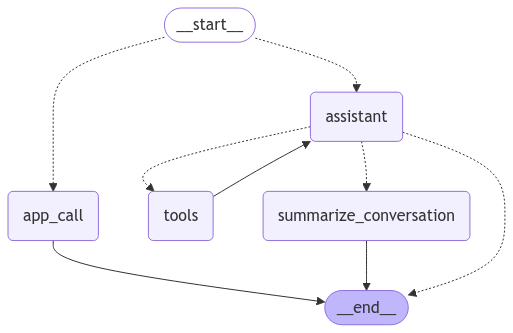
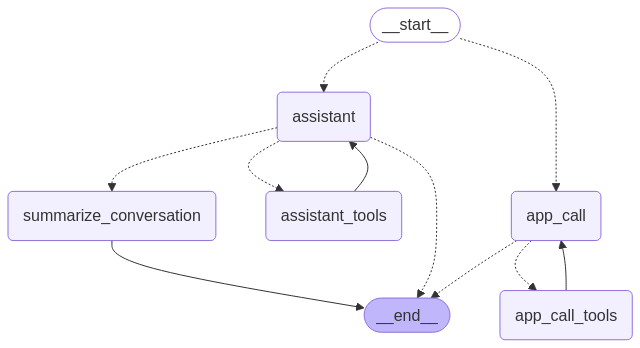
Refactored prompts, enhanced navigation functionality, added current datetime tool

diff --git a/serve.py b/serve.py
@@ -15,8 +15,8 @@
 # specific language governing permissions and limitations
 # under the License.
 
-from tools import app_functions, get_document_content
-from prompts import assistant_prompt, app_call_prompt
+from tools import app_functions, get_document_content, get_current_datetime
+from prompts import assistant_prompt, app_call_prompt, summary_prompt
 
 import os
 import jwt #pyjwt
@@ -42,9 +42,12 @@ from pydantic import BaseModel
 load_dotenv()
 
 # Create LLM model
-tools = [app_functions]
-model = ChatOpenAI(model="gpt-4o-mini", temperature=0, streaming=False)
-model_with_tools = model.bind(tools=[convert_to_openai_tool(tool) for tool in tools])
+assistant_tools = [app_functions, get_current_datetime]
+app_call_tools = [get_current_datetime]
+simple_model = ChatOpenAI(model="gpt-4o-mini", temperature=0.5, top_p=0.5, streaming=False)
+model = ChatOpenAI(model="gpt-4o", temperature=0.3, top_p=0.2, streaming=False)
+model_w_assistant_tools = model.bind(tools=[convert_to_openai_tool(tool) for tool in assistant_tools])
+model_w_app_call_tools = model.bind(tools=[convert_to_openai_tool(tool) for tool in app_call_tools])
 
 class CustomState(MessagesState):
     """
@@ -69,10 +72,9 @@ def assistant(state: CustomState):
     else:
        messages = state["messages"]
 
-    response = model_with_tools.invoke([SystemMessage(content=assistant_prompt)] +
-                                       [SystemMessage(content="Here is the history of the chat so far: ")] +
-                                       messages)
+    response = model_w_assistant_tools.invoke([SystemMessage(content=assistant_prompt)] + messages)
     print(f"{function_name}: Response: {response.content}")
+
     return {"messages": response}
 
 def summarize_conversation(state: CustomState, messages_to_keep = 5):
@@ -84,21 +86,25 @@ def summarize_conversation(state: CustomState, messages_to_keep = 5):
     # Try to get a summary from the state
     summary = state.get("summary", "")
 
+
     # If a summary exists, prompt the model to extend it
     if summary:
         summary_message = (
             f"This is the summary of the conversation to date: {summary}\n\n"
-            "Extend the summary by taking into account the new mesages above:"
+             "Extend the summary by taking into account the new mesages below:"
         )
     # If not, prompt the model to create a summary
     else:
-        summary_message = "Create a summary of the conversation above:"
+        summary_message = "\n\nCreate a summary of the conversation below:"
     
     print(f"{function_name}: Invoking summarization model...")
     
     messages = state["messages"][:] # Create a copy of the messages list
-    messages_with_summary_message = messages + [HumanMessage(content=summary_message)] # Add prompt to our history
-    response = model.invoke(messages_with_summary_message) # Summarize
+    messages_with_summary_message = ([SystemMessage(content=summary_prompt)] + 
+                                     [HumanMessage(content=summary_message)] + 
+                                      messages) # Add prompt to our history
+    
+    response = simple_model.invoke(messages_with_summary_message) # Summarize
 
     # Delete previous messages akin to "messages_to_keep"
     delete_messages = []
@@ -147,17 +153,20 @@ def app_call(state: CustomState):
             The description of the function that was called and additional data was required for is outlined as follows:
             {get_document_content(last_ai_message)}
             
-            The last two prompts instructed as follows:
+            The last two messages received from the app (either from the app's backend or the user) are:
             {last_user_messages[0]}
             {last_user_messages[1]}
 
             The app's additional data response was:
             {last_user_messages[0]}
+
+            If the additional data response was empty, the app didn't provide any information. This is the most up-to-date information.
             """
 
             full_prompt = app_call_prompt + additional_prompt
             print(f"{function_name}: Full prompt: {full_prompt}")
-            response = model.invoke(full_prompt)
+
+            response = model_w_app_call_tools.invoke([SystemMessage(full_prompt)] + messages)
             print(f"{function_name}: Response: {response.content}")
 
             return {"messages": response}
@@ -183,7 +192,7 @@ def is_tool_related_message(message):
 #endregion
 
 #region Edge Definitions
-def should_summarize(state: CustomState, messages_key: str = "messages", summarize_at = 27):
+def should_summarize(state: CustomState, messages_key: str = "messages", summarize_at = 15):
     """
     Checks if the messages should be summarized, and if so, route accordingly.
     """
@@ -201,9 +210,9 @@ def should_summarize(state: CustomState, messages_key: str = "messages", summari
         raise ValueError(f"No messages found in input state to tool_edge: {state}")
     
     print(f"{function_name}: Messages length: {len(messages)}")
-    # Check if there's a tool call, and if so, go to the tools node
+    # Check if there's a tool call, and if so, go to the assistant tools node
     if hasattr(ai_message, "tool_calls") and len(ai_message.tool_calls) > 0:
-        routing = "tools"
+        routing = "assistant_tools"
         print(f"{function_name}: Tool call detected. Routing to {routing}.")
     # If there are more than 'summarize_at' messages, then we summarize the conversation
     elif len(messages) > summarize_at:
@@ -228,8 +237,15 @@ def should_execute_app_call(state: CustomState):
     else:
         routing = "assistant"
         print(f"{function_name}: No app call detected. Routing to {routing}.")
+    
     return routing
 
+def app_call_tools_condition(state) -> str:
+    """
+    Wrap tools_condition to redirect to 'app_call_tools' instead of 'tools'.
+    """
+    result = tools_condition(state)
+    return "app_call_tools" if result == "tools" else result
 #endregion
 
 # Graph
@@ -238,8 +254,9 @@ workflow = StateGraph(CustomState)
 # Define nodes: these do the work
 workflow.add_node("assistant", assistant)
 workflow.add_node("app_call", app_call)
-workflow.add_node("tools", ToolNode(tools))
-workflow.add_node(summarize_conversation)
+workflow.add_node("assistant_tools", ToolNode(assistant_tools))
+workflow.add_node("app_call_tools", ToolNode(app_call_tools))
+workflow.add_node("summarize_conversation", summarize_conversation)
 
 # Define edges: these determine how the control flow moves
 workflow.add_conditional_edges(
@@ -252,18 +269,24 @@ workflow.add_conditional_edges(
 )
 workflow.add_conditional_edges(
     "assistant",
-    # If the latest message (result) from assistant is a tool call -> tools_condition routes to tools
-    # If the latest message (result) from assistant is a not a tool call -> tools_condition routes to END
     should_summarize,
     {
-        "tools": "tools",
+        "assistant_tools": "assistant_tools",
         "summarize_conversation": "summarize_conversation",
         END: END
     }
 )
-workflow.add_edge("tools", "assistant")
+workflow.add_conditional_edges(
+    "app_call",
+    app_call_tools_condition,
+    {
+        "app_call_tools": "app_call_tools",
+        END: END
+    }
+)
+workflow.add_edge("assistant_tools", "assistant")
+workflow.add_edge("app_call_tools", "app_call")
 workflow.add_edge("summarize_conversation", END)
-workflow.add_edge("app_call", END)
 
 memory = MemorySaver()
 react_graph = workflow.compile(checkpointer=memory)

diff --git a/prompts.py b/prompts.py
@@ -1,23 +1,15 @@
-# Define prompt
 assistant_prompt = """
-You are an assistant integrated with various accessibility apps to help visually impaired users.
-Your role is to assist users in activating the correct function within an app based on their input and their current context.
-The context is relevant to the user's whereabouts: they might be in a supermarket, at home or at a coffee table, for instance.
-You need to intelligently decide what the user wants to do based on this context.
+You are an assistant integrated with various accessibility apps to support visually impaired users.
+Your only role is to help users activate the correct function within a single app,
+based on their command and their current physical or situational context (e.g., in a supermarket, at home, or at a coffee table).
 
-Process Flow:
-    Interpret the user's natural language command. Use the available tools to search for the most appropriate app function based on the command.
+Your Sole Responsibilities:
+- Interpret the user's natural language request using their message and context.
+- Identify the single most appropriate app function that matches the user's intent.
+- Ask for clarification if you are not confident about the function match.
+- Return the metadata of the identified function in this format: label=app-label; additional-data-required=True/False
 
-    If confident in finding a matching function, return its metadata in this format:
-    label=app-label; additional-data-required=True/False
-
-    Where:
-    - app-label: The name of the identified app function.
-    - additional-data-required: Set to True if more information is needed to complete the task, otherwise False.
-    If True, ignore any other instructions as this will be handled by another assistant.
-
-    If not confident in finding a matching function based on the user's context, ask the user for clarification or more details.
-    Continue these steps until you can confidently identify the correct app function.
+Note: A seperate assistant named "app_call" is responsible for executing the instructions as described within the function.
 
 Example Workflows:
     User Command: "Can you help me look for the apples?"
@@ -40,5 +32,19 @@ You are one of the assistants integrated with various accessibility apps to help
 The purpose of this system is to assist users in activating the correct function within an app based on their input and their current context.
 Another assistant determined that additional data was required from the app to fulfil the contextual needs of this app function.
 This additional data was now returned by the app.
-Your role is to perform the instructions as written in the app function's description.
+Your job is to perform the instructions as written in the app function's description.
+"""
+
+summary_prompt = """
+Your task is to summarize the previous chat messages while maintaining the user's context.
+Focus on providing a concise summary that captures the key details of the conversation without losing the context in which the user's messages were exchanged.
+
+Follow these guidelines:
+- Retain important user intents, requests, and any relevant context about the user's location, goals, or current situation.
+- Condense the conversation into a short, clear summary—avoid unnecessary elaboration.
+- Ensure that the user's context is accurately reflected in the summary, so they can easily continue from where they left off without confusion.
+- If there's a shift in the user's goals or context, include that change in the summary so it's clear.
+
+Example: If the user had been discussing finding apples in a supermarket and then switched to asking for directions to a nearby store,
+your summary should mention both topics, highlighting the shift in focus and the new task.
 """

diff --git a/tools.py b/tools.py
@@ -1,5 +1,6 @@
 import json
 from dotenv import load_dotenv
+from datetime import datetime
 from langchain_core.documents import Document
 from langchain_chroma import Chroma
 from langchain_openai import OpenAIEmbeddings
@@ -39,9 +40,24 @@ docs = [
     ),
     Document(
         page_content="""
-        Allows the user to save their favorite supermarkets and start GPS navigation to this supermarket.
-        Extra Feature: If the user mentions a name of a supermarket, return the name of the supermarket.""",
-        metadata={"app_id": 1, "type": "function", "label": "navigation", "additional-data-required": False},
+        This group of functions manages a list of saved supermarket locations and supports navigation to them.
+        The app will return the saved supermarkets and their metadata in JSON as additional data.
+
+        The user may ask to:
+        - remove a supermarket from their saved place list;
+        - view the current place list;
+        - get directions to a supermarket;
+        - check opening hours;
+        - find out whether a supermarket is currently open or closed.
+
+        When the user wants to remove a supermarket from the list, respond only with the relevant place ID(s),
+        using the exact format shown below, without adding any extra words, introductions, or explanations before or after the response:
+        Format (use exactly as shown): <LLM>[-1]ChIJgUbEo8cfqokR5lP9_Wh_DaM; [-1]EicxMyBNYXJrZXQgU3QsIFdpbG1pbmd0b24sIE5DIDI4NDAxLCBVU0E
+
+        Otherwise, respond to the user in clear, natural language paragraphs, using only the alphabet (A-Z), numbers (0-9), and spaces.
+        Avoid using symbols, markdown, or bullet points, and focus on providing information in a straightforward, conversational way.
+        """,
+        metadata={"app_id": 1, "type": "function", "label": "navigation", "additional-data-required": True},
     ),
     Document(
         page_content="Can identify products in a supermarket and hands of the user in real time to help find the right products.",
@@ -127,6 +143,15 @@ def app_functions(query: str) -> str:
         strList.append({"document" : doc.page_content ,"metadata" : doc.metadata})
     return json.dumps(strList)
 
+@tool
+def get_current_datetime() -> str:
+    """
+    Returns the current date and time, including the day of the week,
+    in a human-readable format. 
+    """
+    now = datetime.now()
+    formatted_time = now.strftime("%A, %Y-%m-%d %H:%M:%S")
+    return f"The current date and time is (YY-MM-DD, 24h): {formatted_time}"
 # @tool
 # def determine_input_type(query: str) -> str:
 #     """
